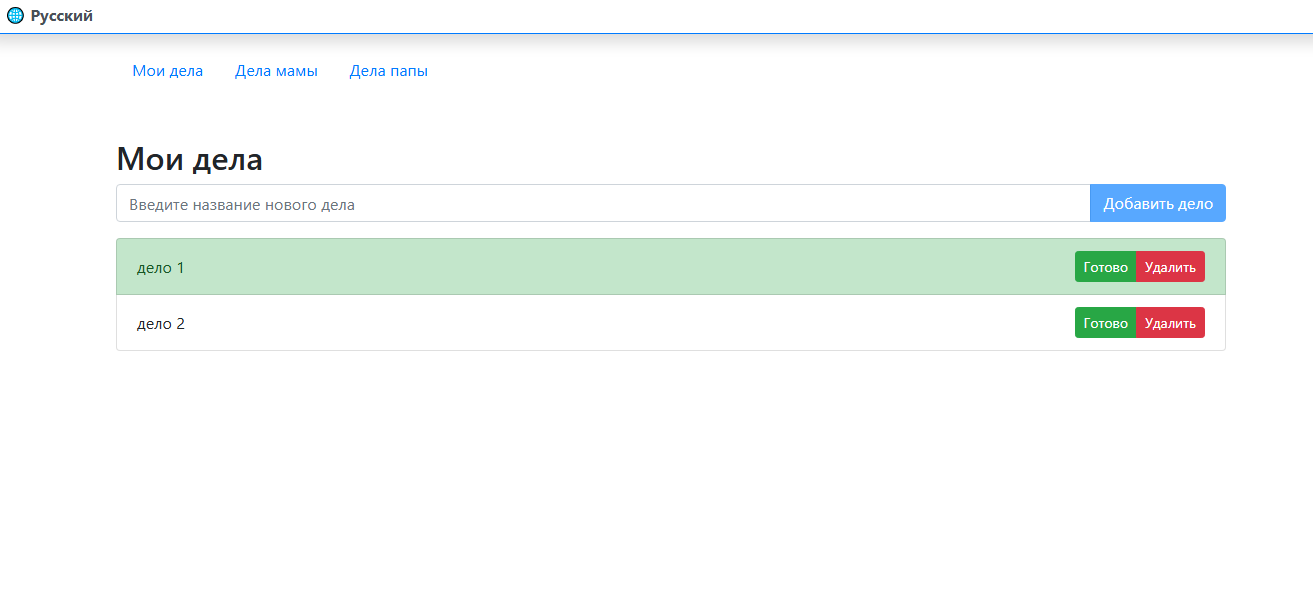
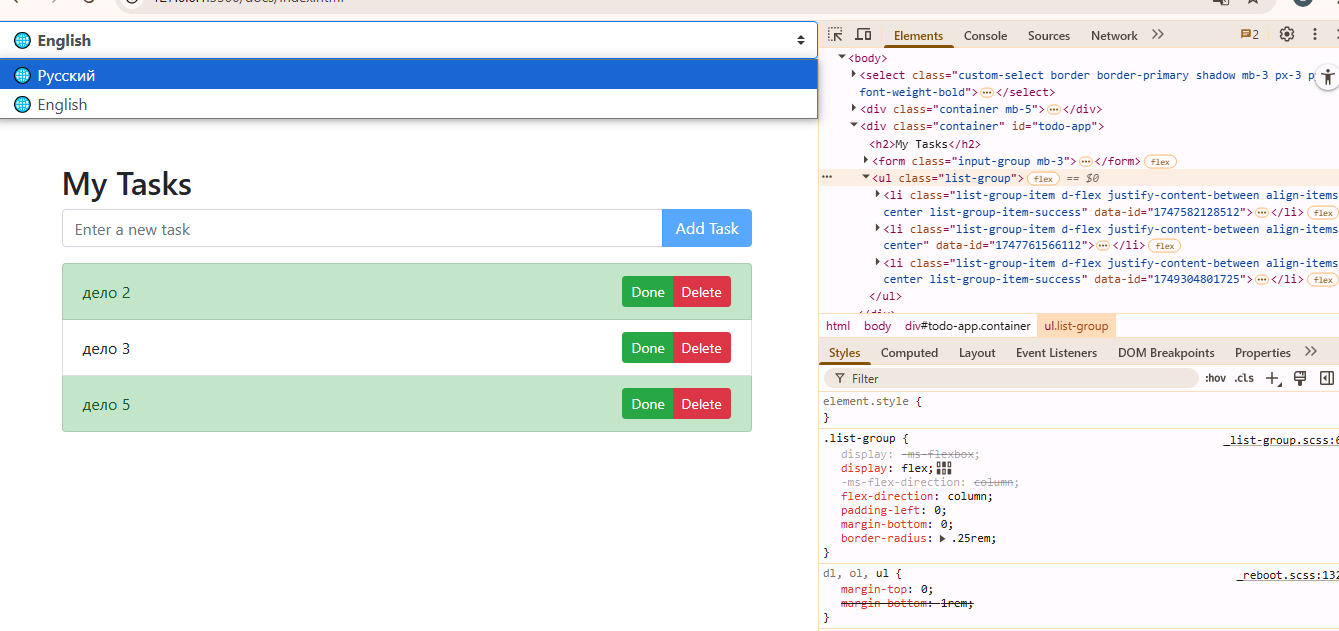
added hash, all.html

Changed region(s): [[0.0, 0.0, 1.0, 0.9713], [0.9056, 0.6678, 1.0, 0.7285], [0.9368, 0.8803, 1.0, 0.941]]

diff --git a/docs/index.html b/docs/index.html
@@ -9,19 +9,34 @@
     integrity="sha384-zCbKRCUGaJDkqS1kPbPd7TveP5iyJE0EjAuZQTgFLD2ylzuqKfdKlfG/eSrtxUkn" crossorigin="anonymous">
 
   <script type="module">
-    import createTodoApp from './js/view.js';
-    import { getTodoItemList, createTodoItem, toggleTodoItem, deleteTodoItem } from './js/api.js';
+    import { getOwnerFromHash, createTodoApp } from './js/view.js';
+    import { getTodoItemList, createTodoItem, toggleTodoItem, deleteTodoItem, getAllTodoLists } from './js/api.js';
 
-    const owner = 'my';
+    const container = document.getElementById('todo-app');
+    async function renderTodoApp() {
+      container.innerHTML = '';
+      const owner = getOwnerFromHash();
+      if (owner && owner !== 'all') {
+        const todoItemList = await getTodoItemList(owner);
+        createTodoApp(container, {
+          owner: owner,
+          todoItemList: todoItemList,
+          onCreateFormSubmit: createTodoItem,
+          onDoneClick: toggleTodoItem,
+          onDeleteClick: deleteTodoItem,
+        });
+      }
+    }
+
+    window.addEventListener('hashchange', renderTodoApp);
+    window.addEventListener('DOMContentLoaded', renderTodoApp);
+
+    // Пример для разработчика: посмотреть все списки в консоли
+    const owners = ['my', 'mom', 'dad'];
     (async () => {
-      const todoItemList = await getTodoItemList(owner);
-      createTodoApp(document.getElementById('todo-app'), {
-        owner,
-        todoItemList,
-        onCreateFormSubmit: createTodoItem,
-        onDoneClick: toggleTodoItem,
-        onDeleteClick: deleteTodoItem,
-      })
+      const allLists = await getAllTodoLists(owners, 500); // 500мс задержка для наглядности
+      const allListsArr = Object.entries(allLists).map(([owner, todos]) => ({ owner, todos }));
+      console.log(allListsArr);
     })();
   </script>
 </head>
@@ -29,9 +44,10 @@
 <body>
   <div class="container mb-5">
     <nav class="nav">
-      <a class="nav-link" href="index.html" id="nav-my-link"></a>
-      <a class="nav-link" href="mom.html" id="nav-mom-link"></a>
-      <a class="nav-link" href="dad.html" id="nav-dad-link"></a>
+      <a class="nav-link" href="#my" id="nav-my-link"></a>
+      <a class="nav-link" href="#mom" id="nav-mom-link"></a>
+      <a class="nav-link" href="#dad" id="nav-dad-link"></a>
+      <a class="nav-link" href="all.html" id="nav-all-link"></a>
     </nav>
   </div>
   <div class="container" id="todo-app"></div>

diff --git a/docs/all.html b/docs/all.html
@@ -1,0 +1,46 @@
+<!DOCTYPE html>
+<html lang="en">
+
+<head>
+  <meta charset="UTF-8">
+  <meta name="viewport" content="width=device-width, initial-scale=1.0">
+  <title>Все списки дел</title>
+  <link href="https://cdn.jsdelivr.net/npm/bootstrap@4.6.1/dist/css/bootstrap.min.css" rel="stylesheet">
+  <script type="module">
+    import { getOwnerFromHash, createTodoApp } from './js/view.js';
+    import { getAllTodoLists, createTodoItem, toggleTodoItem, deleteTodoItem } from './js/api.js';
+
+    const owners = ['my', 'mom', 'dad'];
+    (async () => {
+      const allLists = await getAllTodoLists(owners, 500); // 500мс задержка для наглядности
+      const container = document.getElementById('all-todo-apps');
+      owners.forEach(owner => {
+        const section = document.createElement('section');
+        section.classList.add('mb-5', 'p-3', 'border', 'rounded', 'shadow-sm');
+        section.id = `todo-app-${owner}`;
+        container.append(section);
+        createTodoApp(section, {
+          owner,
+          todoItemList: allLists[owner],
+          onCreateFormSubmit: createTodoItem,
+          onDoneClick: toggleTodoItem,
+          onDeleteClick: deleteTodoItem,
+        });
+      });
+    })();
+  </script>
+</head>
+
+<body>
+  <div class="container mb-5">
+    <nav class="nav">
+      <a class="nav-link" href="index.html" id="nav-my-link"></a>
+      <a class="nav-link" href="index.html" id="nav-mom-link"></a>
+      <a class="nav-link" href="index.html" id="nav-dad-link"></a>
+      <a class="nav-link font-weight-bold text-primary" href="all.html"></a>
+    </nav>
+  </div>
+  <div class="container" id="all-todo-apps"></div>
+</body>
+
+</html>

diff --git a/docs/js/api.js b/docs/js/api.js
@@ -108,3 +108,24 @@ export async function deleteTodoItem({ id, owner }) {
     },
   );
 }
+
+// Получить списки дел для нескольких пользователей параллельно
+export async function getAllTodoLists(owners, delayMs = 0) {
+  // Функция для искусственной задержки
+  function delay(ms) {
+    return new Promise((resolve) => { setTimeout(resolve, ms); });
+  }
+  // Массив промисов для каждого owner
+  const promises = owners.map(async (owner) => {
+    const result = await getTodoItemList(owner);
+    if (delayMs > 0) await delay(delayMs); // искусственная задержка
+    return { owner, todos: result };
+  });
+  // Ждём завершения всех промисов
+  const results = await Promise.all(promises);
+  // Преобразуем в объект { owner: todos }
+  return results.reduce((acc, { owner, todos }) => {
+    acc[owner] = todos;
+    return acc;
+  }, {});
+}

diff --git a/docs/js/view.js b/docs/js/view.js
@@ -70,6 +70,7 @@ function setAppNavText() {
     { id: 'nav-my-link', key: 'title_my' },
     { id: 'nav-mom-link', key: 'title_mom' },
     { id: 'nav-dad-link', key: 'title_dad' },
+    { id: 'nav-all-link', key: 'title_all' },
   ];
   navLinks.forEach((link) => {
     const el = document.getElementById(link.id);
@@ -225,4 +226,13 @@ async function createTodoApp(container, {
   });
 }
 
-export default createTodoApp;
+// Функция для #hash по owner
+function getOwnerFromHash() {
+  const hash = window.location.hash.replace('#', '');
+  if (hash === 'mom') return 'mom';
+  if (hash === 'dad') return 'dad';
+  if (hash === 'all') return 'all';
+  return 'my';
+}
+
+export { getOwnerFromHash, createTodoApp };

diff --git a/docs/js/i18n.js b/docs/js/i18n.js
@@ -3,6 +3,7 @@ export const translations = {
     title_my: 'Мои дела',
     title_mom: 'Дела мамы',
     title_dad: 'Дела папы',
+    title_all: 'Все дела',
     addPlaceholder: 'Введите название нового дела',
     addButton: 'Добавить дело',
     doneButton: 'Готово',
@@ -13,6 +14,7 @@ export const translations = {
     title_my: 'My Tasks',
     title_mom: 'Mom\'s Tasks',
     title_dad: 'Dad\'s Tasks',
+    title_all: 'All Tasks',
     addPlaceholder: 'Enter a new task',
     addButton: 'Add Task',
     doneButton: 'Done',

diff --git a/README.md b/README.md
@@ -1,43 +1,32 @@
 # To-Do App
 
-> ⚠ **Note:** On GitHub Pages, the app works only in offline mode (localStorage).
-> To use all features (including API and multi-user support), please clone the repository and run the server locally.
-> See instructions in the "How to Run the Project" section.
+> ⚠ **Note:** On GitHub Pages, the app works only in offline mode (localStorage). To use all features (including API and multi-user support), please clone the repository and run the server locally. See instructions in the "How to Run the Project" section.
 
-A simple application for creating a to-do list using JavaScript, HTML, and Bootstrap.
+A simple modular to-do list application using JavaScript, HTML, and Bootstrap. Supports both offline (localStorage) and online (REST API) modes, multi-user lists, and multilingual interface.
 
 ## Demo
 
 You can try the app online (offline mode only) via [GitHub Pages](https://kate8382.github.io/to-do_app/).
 
-## Description
+## Features
 
-This application allows users to:
-- Create tasks.
-- Mark tasks as completed.
-- Delete tasks.
-- Work with tasks stored both on a backend server (API) and in `localStorage` (offline mode).
-- Automatically synchronize tasks between API and localStorage.
-- Switch between Russian and English interface (language selector in the UI).
-- Use a modular code structure (separate files for view, API, translations).
+- Add, complete, and delete tasks
+- Data is stored both in localStorage (offline) and on a backend server (API)
+- Automatic synchronization between API and localStorage
+- Multilingual interface (Russian/English)
+- Modular code structure (UI, API, translations)
+- Hash-based navigation between user lists (SPA-like)
+- Separate page for viewing all users' lists (for developers/testing)
 
 ## Project Structure
 
-- **index.html, mom.html, dad.html**: Main pages for different to-do lists (My, Mom's, Dad's).
-- **js/view.js**: Module responsible for rendering the UI, handling user interactions, and language switching.
-- **js/api.js**: Module for working with the backend API and localStorage (hybrid logic).
-- **js/i18n.js**: Module with translations and supported languages (for i18n).
-- **js/todo-app.js**: (Optional) Combined logic for demonstration or legacy purposes.
-- **README.md**: Project documentation.
-
-## Technologies Used
-
-- **HTML**: For the structure of the page.
-- **CSS (Bootstrap)**: For styling the interface.
-- **JavaScript (ES6 modules)**: For implementing functionality and modularity.
-- **localStorage**: For saving data on the client side (offline support).
-- **REST API**: For persistent storage and multi-user support.
-- **i18n (Internationalization)**: For supporting multiple languages (RU/EN).
+- **docs/index.html**: Main page for user lists (My, Mom's, Dad's) with hash navigation
+- **docs/all.html**: Developer/testing page for viewing all lists at once
+- **docs/js/view.js**: UI rendering, user interaction, language switching
+- **docs/js/api.js**: API and localStorage logic
+- **docs/js/i18n.js**: Translations and supported languages
+- **todo-server/**: Simple backend server and data storage
+- **README.md**: Project documentation
 
 ## How to Run the Project
 
@@ -52,41 +41,22 @@ This application allows users to:
    ```
 3. Open the `index.html` file in your browser (from the `docs` folder for GitHub Pages compatibility).
 
-## Features
+## Pages and Navigation
 
-1. **Adding tasks:**
-   - Enter the task name in the input field.
-   - Click the "Add Task" button.
+- **index.html** — main user page. Switch between lists (My, Mom's, Dad's) via hash routing (`#my`, `#mom`, `#dad`) without page reloads.
+- **all.html** — view all to-do lists at once (for developers/testing). Can be hidden from users by removing the menu link.
 
-2. **Marking tasks as completed:**
-   - Click the "Done" button next to a task to mark it as completed or uncompleted.
+## Hash Routing (SPA-like Navigation)
 
-3. **Deleting tasks:**
-   - Click the "Delete" button next to a task to remove it.
+Navigation between lists is implemented by changing the hash in the address bar. This allows dynamic loading of the required list without reloading the page.
 
-4. **Saving and synchronizing data:**
-   - All tasks are saved both in localStorage and on the server (API).
-   - If the server is unavailable, the app works in offline mode using localStorage.
-   - When the server becomes available again, data is synchronized automatically.
+## Multilanguage Support
 
-5. **Language switching:**
-   - The interface supports both Russian and English.
-   - You can switch the language at any time using the dropdown at the top of the page.
-   - All UI elements (navigation, buttons, placeholders, confirmations) are translated instantly.
+The interface supports both Russian and English. Language switching works on all pages, including all.html.
 
-6. **Modular code structure:**
-   - The code is split into logical modules: UI (view.js), API (api.js), translations (i18n.js).
-   - Easy to maintain and extend.
+## For Developers
 
-## Navigation
-
-The application supports multiple to-do lists:
-
-* **My Tasks**
-* **Mom's Tasks**
-* **Dad's Tasks**
-
-You can switch between lists using the navigation menu. Each list is stored and synchronized separately.
+The all.html page is intended for developers and testers. It allows you to see all to-do lists at once and can be hidden from regular users (for example, by removing the link from the menu).
 
 ## Screenshots
 
@@ -95,6 +65,14 @@ Below you can see both the user interface and the developer tools (showing local
 ![Screenshot 1](screenshots/image1.png)
 ![Screenshot 2](screenshots/image2.png)
 ![Screenshot 3](screenshots/image3.png)
+![Screenshot 3](screenshots/image4.png)
+
+## Example Navigation
+
+- `index.html#my` — My Tasks
+- `index.html#mom` — Mom's Tasks
+- `index.html#dad` — Dad's Tasks
+- `all.html` — All to-do lists (for developers)
 
 ## License
 
